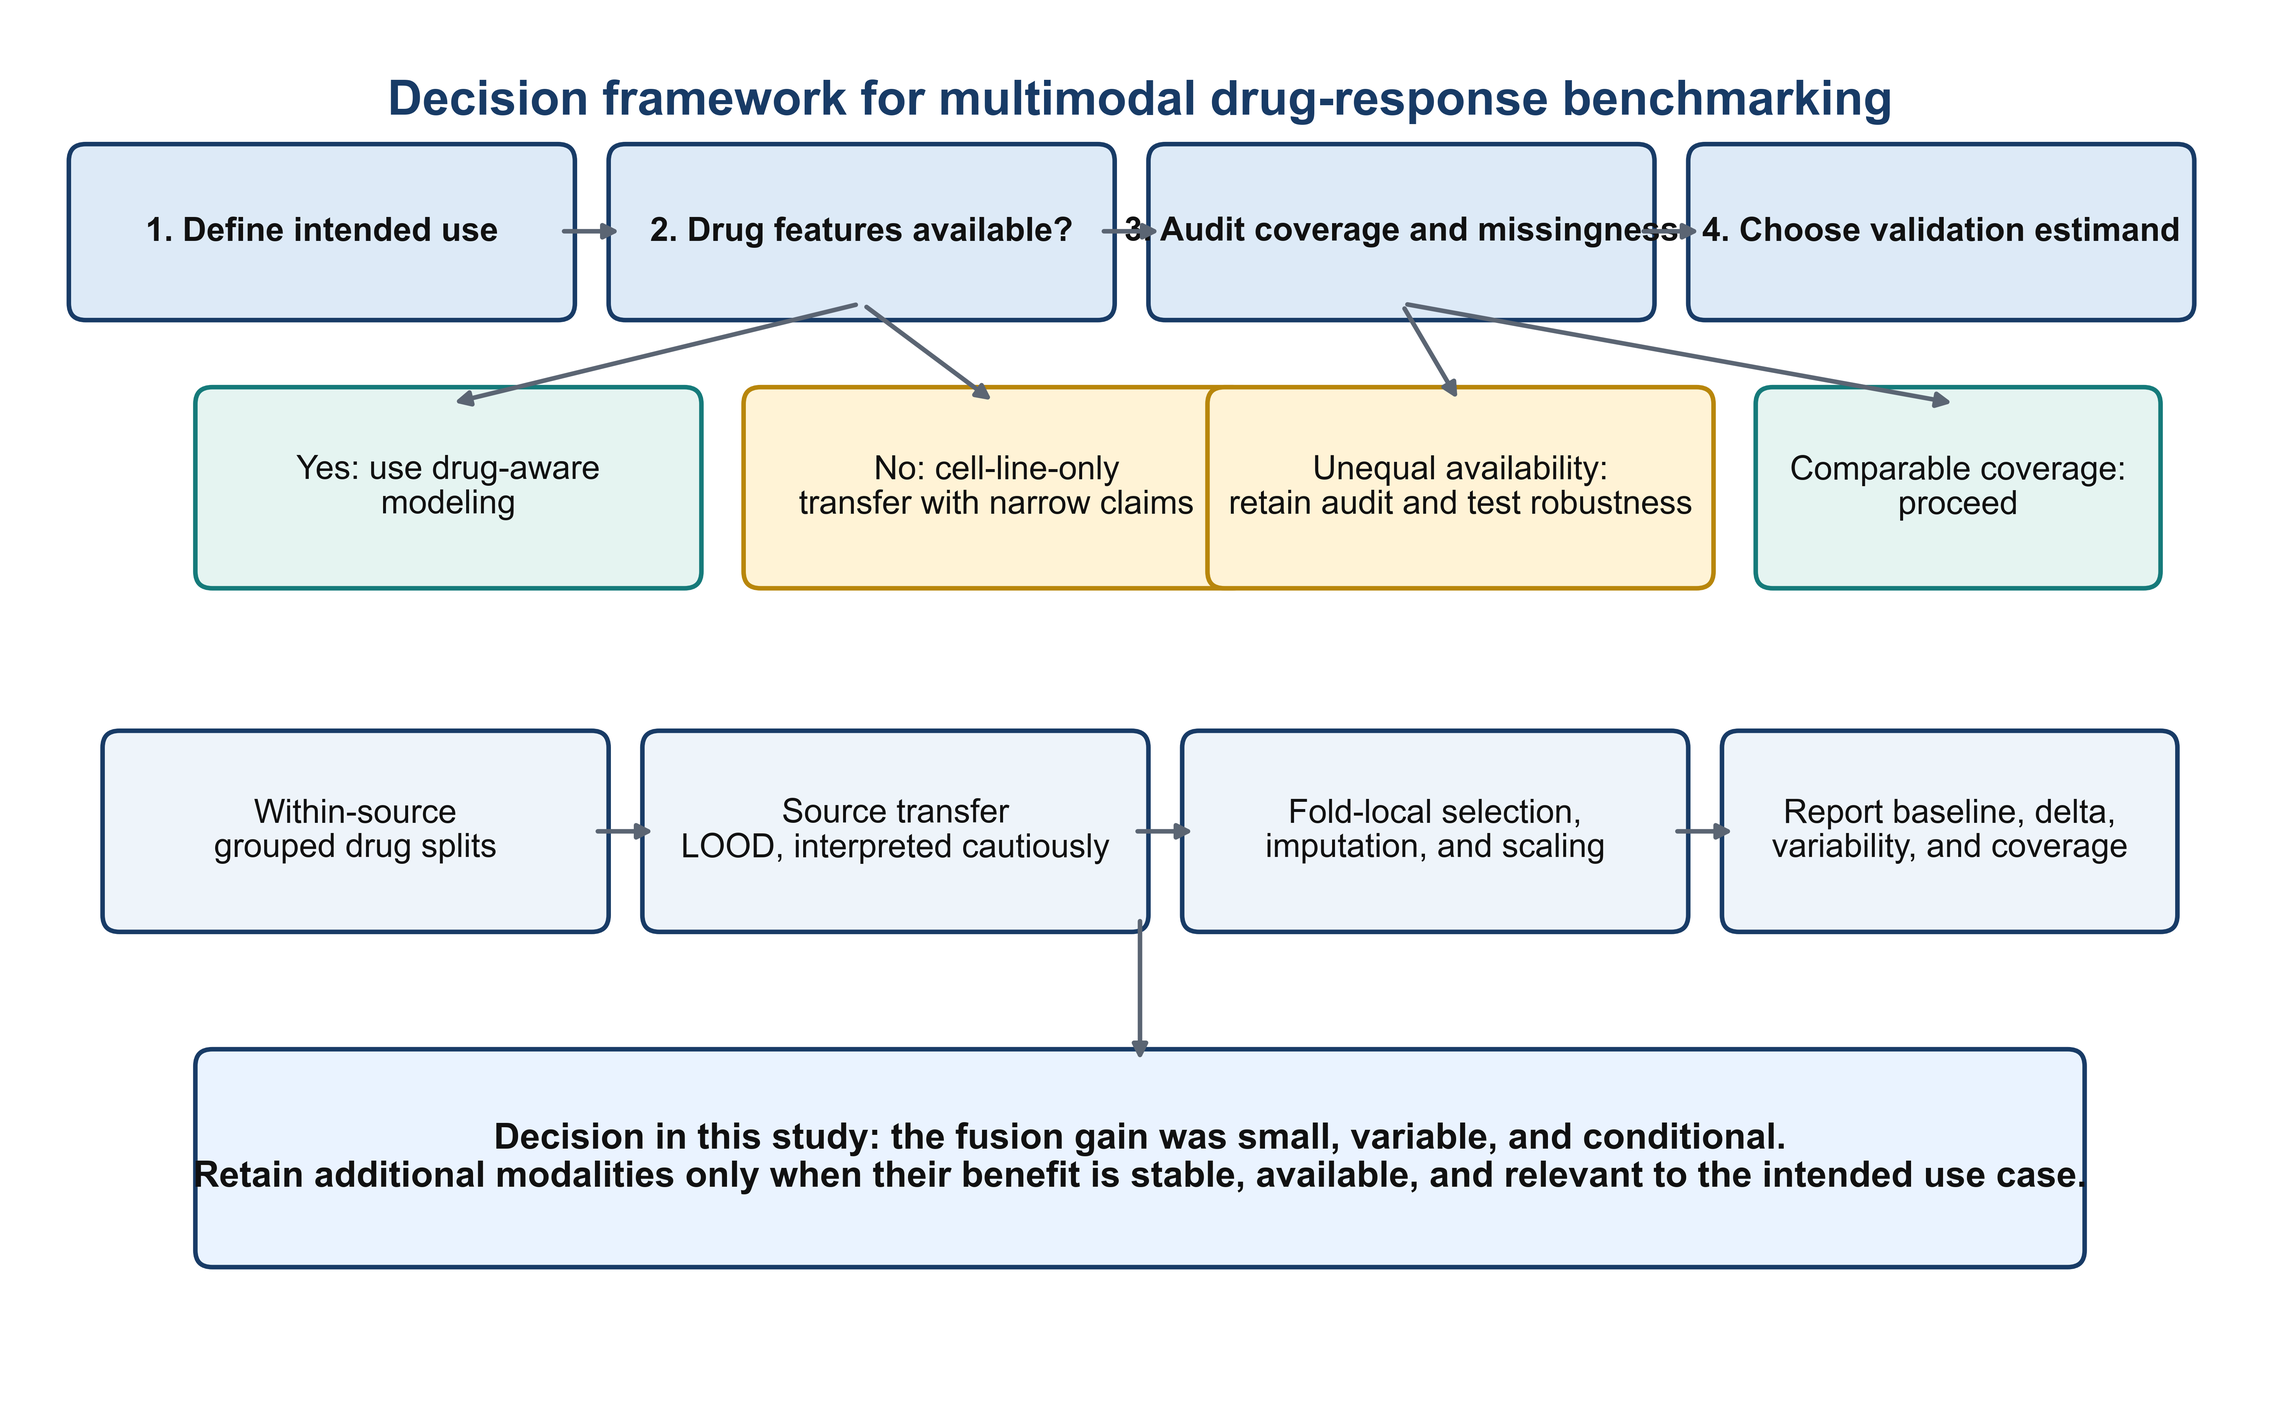
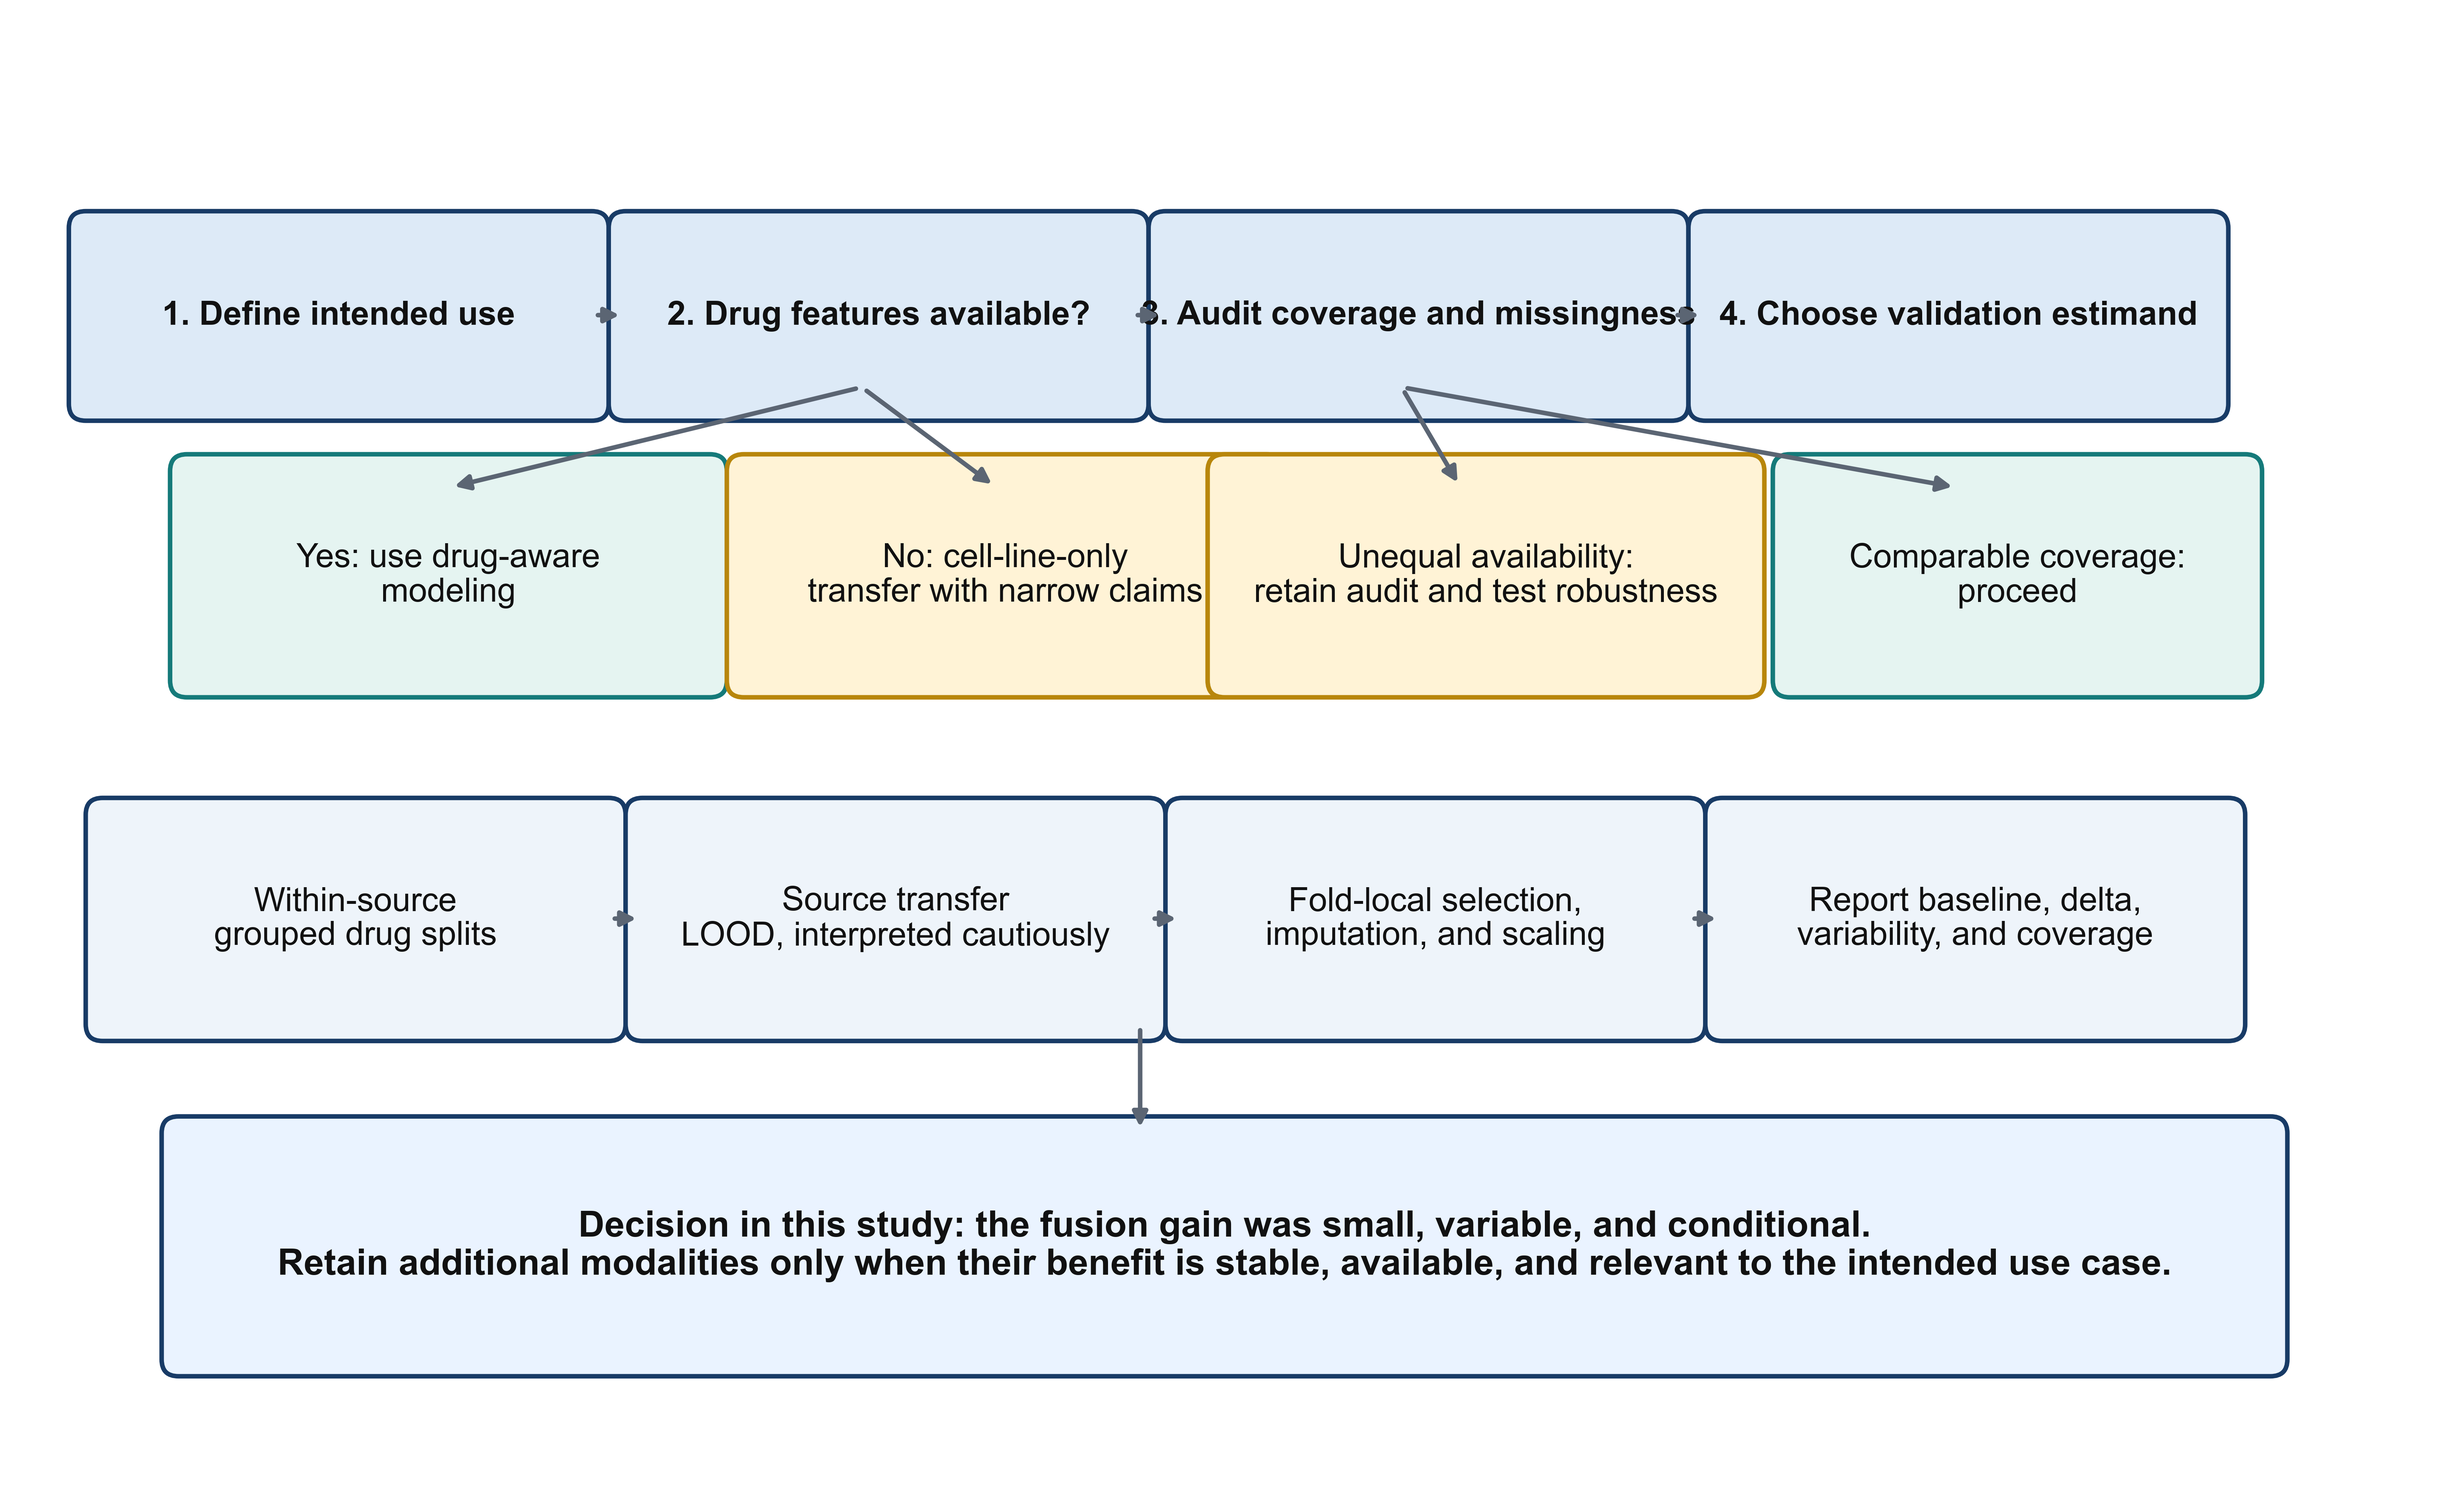
Improve Figure 1 decision boxes

Changed region(s): [[0.0, 0.0625, 0.9667, 0.4688], [0.0624, 0.6875, 0.9356, 0.9375], [0.0312, 0.5, 0.9667, 0.6875]]

diff --git a/scripts/create_decision_tree_figure.py b/scripts/create_decision_tree_figure.py
@@ -1,0 +1,18 @@
+from pathlib import Path
+import matplotlib.pyplot as plt
+from matplotlib.patches import FancyBboxPatch
+ROOT=Path('/Users/cmontefusco/Coding_projects/more-omics-is-not-always-better'); out=ROOT/'outputs/figures/decision_tree_benchmark.png'
+plt.rcParams['font.family']='Arial'
+fig,ax=plt.subplots(figsize=(14,8.5),dpi=600); ax.set_xlim(0,14); ax.set_ylim(0,8.5); ax.axis('off')
+def box(x,y,w,h,text,fc='#EEF4FA',ec='#183B66',fs=11,bold=False):
+ p=FancyBboxPatch((x,y),w,h,boxstyle='round,pad=.10,rounding_size=.10',facecolor=fc,edgecolor=ec,lw=1.5); ax.add_patch(p); ax.text(x+w/2,y+h/2,text,ha='center',va='center',fontsize=fs,weight='bold' if bold else 'normal',wrap=True,color='#111',linespacing=1.15)
+def ar(x1,y1,x2,y2): ax.annotate('',xy=(x2,y2),xytext=(x1,y1),arrowprops={'arrowstyle':'-|>','lw':1.5,'color':'#5B6573'})
+xs=[.25,3.45,6.65,9.85]
+for x,t in zip(xs,['1. Define intended use','2. Drug features available?','3. Audit coverage and missingness','4. Choose validation estimand']): box(x,6.35,3.0,1.05,t,fc='#DDEAF7',fs=11,bold=True)
+for a,b in [(3.25,3.45),(6.45,6.65),(9.65,9.85)]: ar(a,6.88,b,6.88)
+box(0.85,4.70,3.1,1.25,'Yes: use drug-aware\nmodeling',fc='#E5F4F1',ec='#157A7A'); box(4.15,4.70,3.1,1.25,'No: cell-line-only\ntransfer with narrow claims',fc='#FFF3D6',ec='#B8860B'); ar(4.85,6.45,2.4,5.85); ar(4.85,6.45,5.65,5.85)
+box(7.0,4.70,3.1,1.25,'Unequal availability:\nretain audit and test robustness',fc='#FFF3D6',ec='#B8860B'); box(10.35,4.70,2.7,1.25,'Comparable coverage:\nproceed',fc='#E5F4F1',ec='#157A7A'); ar(8.05,6.45,8.4,5.85); ar(8.05,6.45,11.35,5.85)
+box(.35,2.65,3.0,1.25,'Within-source\ngrouped drug splits'); box(3.55,2.65,3.0,1.25,'Source transfer\nLOOD, interpreted cautiously'); box(6.75,2.65,3.0,1.25,'Fold-local selection,\nimputation, and scaling'); box(9.95,2.65,3.0,1.25,'Report baseline, delta,\nvariability, and coverage')
+for a,b in [(3.35,3.55),(6.55,6.75),(9.75,9.95)]: ar(a,3.28,b,3.28)
+box(.8,.65,12.4,1.35,'Decision in this study: the fusion gain was small, variable, and conditional.\nRetain additional modalities only when their benefit is stable, available, and relevant to the intended use case.',fc='#EAF3FF',ec='#183B66',fs=12,bold=True); ar(6.5,2.65,6.5,2.0)
+fig.savefig(out,bbox_inches='tight',pad_inches=.2,facecolor='white'); plt.close(fig)
